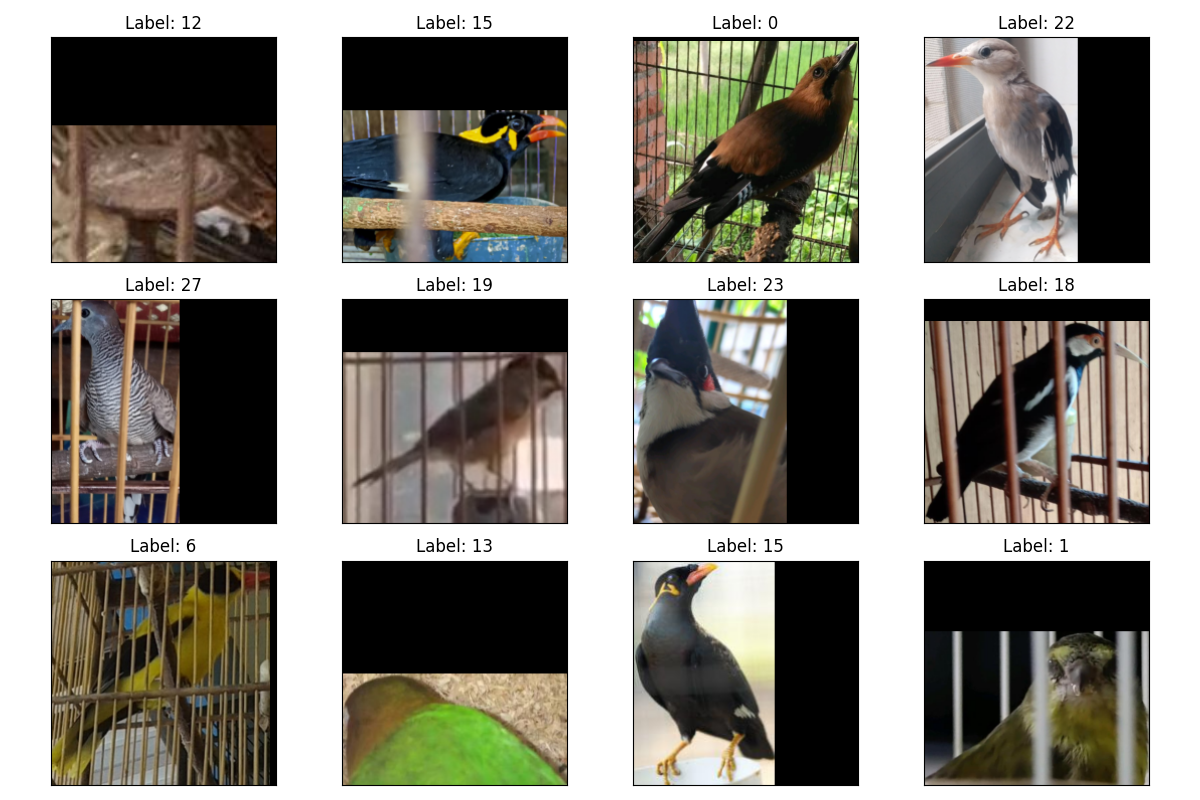
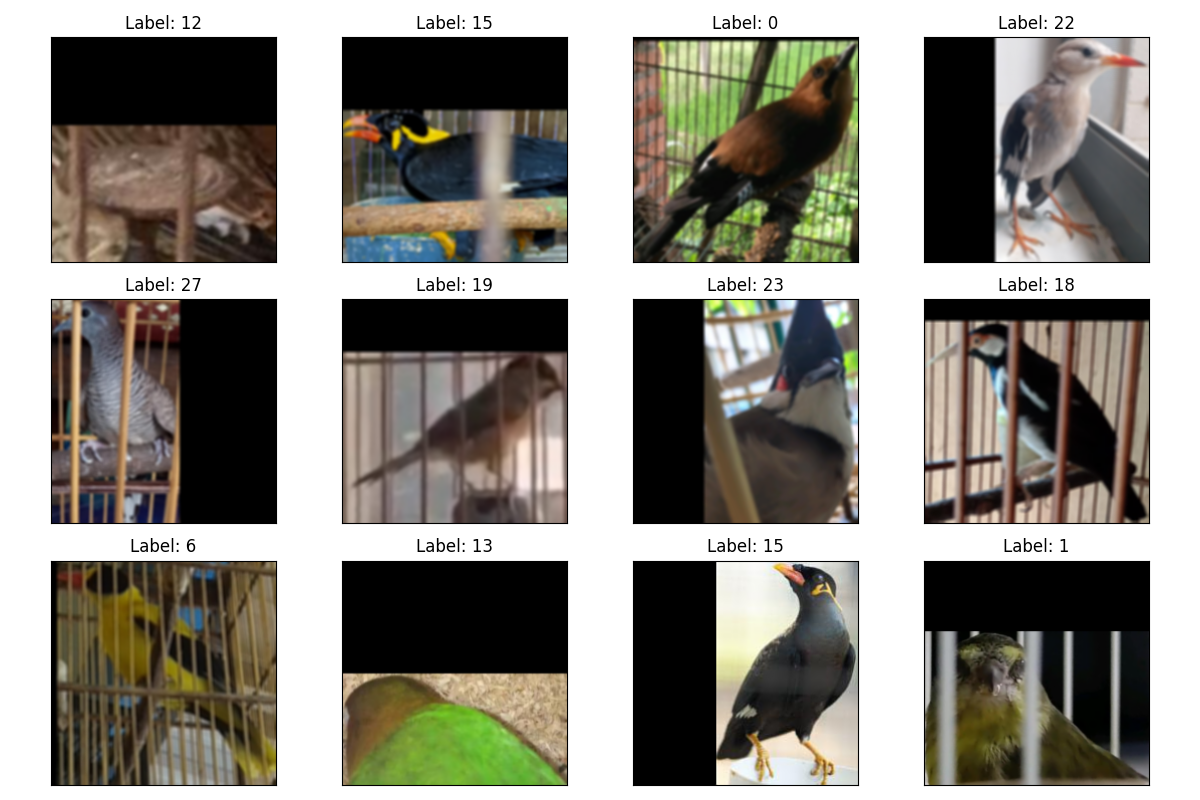
More experiments combined

diff --git a/pres_plots.py b/pres_plots.py
@@ -6,12 +6,12 @@ import matplotlib.pyplot as plt
 # show what the defaults were for those augmentations 
 
 # Example mAP values (replace these with your actual data)
-methods = ['No Augmentation', 'Blur', 'Horizontal Flipping', 'Random Sharpness']
+methods = ['No Aug', 'Blur', 'Horizontal Flipping', 'Random Sharpness', 'All Aug Unbalanced', 'All Aug Umpsampled']
 # method A BLUR: train = 0.9935017680370775, val =0.7645522951549639
 # flipping : train = 0.9803945972730336, val = 0.8155913197540258
 # sharpness: train = 0.9957616060035979, val = 0.7625355412613961
-train_mAP = [1.0, 0.99, 0.98, 1.0]  # mAP values during training
-val_mAP = [0.77, 0.76, 0.82, 0.76]    # mAP values during validation
+train_mAP = [1.0, 0.99, 0.98, 1.0, 0.97, 0.97]  # mAP values during training
+val_mAP = [0.77, 0.76, 0.82, 0.76, 0.77, 0.79]    # mAP values during validation
 
 # Create a bar plot
 fig, ax = plt.subplots(figsize=(10, 6))
@@ -27,7 +27,9 @@ ax.set_xlabel('Augmentation Methods')
 ax.set_ylabel('Mean Average Precision (mAP)')
 ax.set_title('Mean Average Precision during Training and Validation')
 ax.set_xticks([i + bar_width/2 for i in index])
-ax.set_xticklabels(methods)
+ax.set_xticklabels(methods, rotation=45)  # Rotate x-axis labels
+
+# ax.set_xticklabels(methods)
 # ax.legend()
 
 # Place the legend to the right of the plot
@@ -36,4 +38,4 @@ ax.legend(loc='center left', bbox_to_anchor=(1, 0.5))
 # Display the plot
 plt.tight_layout()
 # plt.tight_layout(rect=[0, 0, 0.85, 1])
-plt.savefig('mAP_augmentations.png')
+plt.savefig('mAP_augmentations new.png')

diff --git a/ct_classifier/dataset.py b/ct_classifier/dataset.py
@@ -186,9 +186,9 @@ class CTDataset(Dataset):
         self.transform = Compose([
             FixedHeightResize(224),
             #CageAugmenter(),
-            # GaussianBlur(5),
-            # RandomHorizontalFlip(p=0.5),
-            #RandomAdjustSharpness(sharpness_factor=2, p=0.5),
+            GaussianBlur(5),
+            RandomHorizontalFlip(p=0.5),
+            RandomAdjustSharpness(sharpness_factor=2, p=0.5),
             ToTensor(),
         ])
         # the tensor format is channels, height, width
